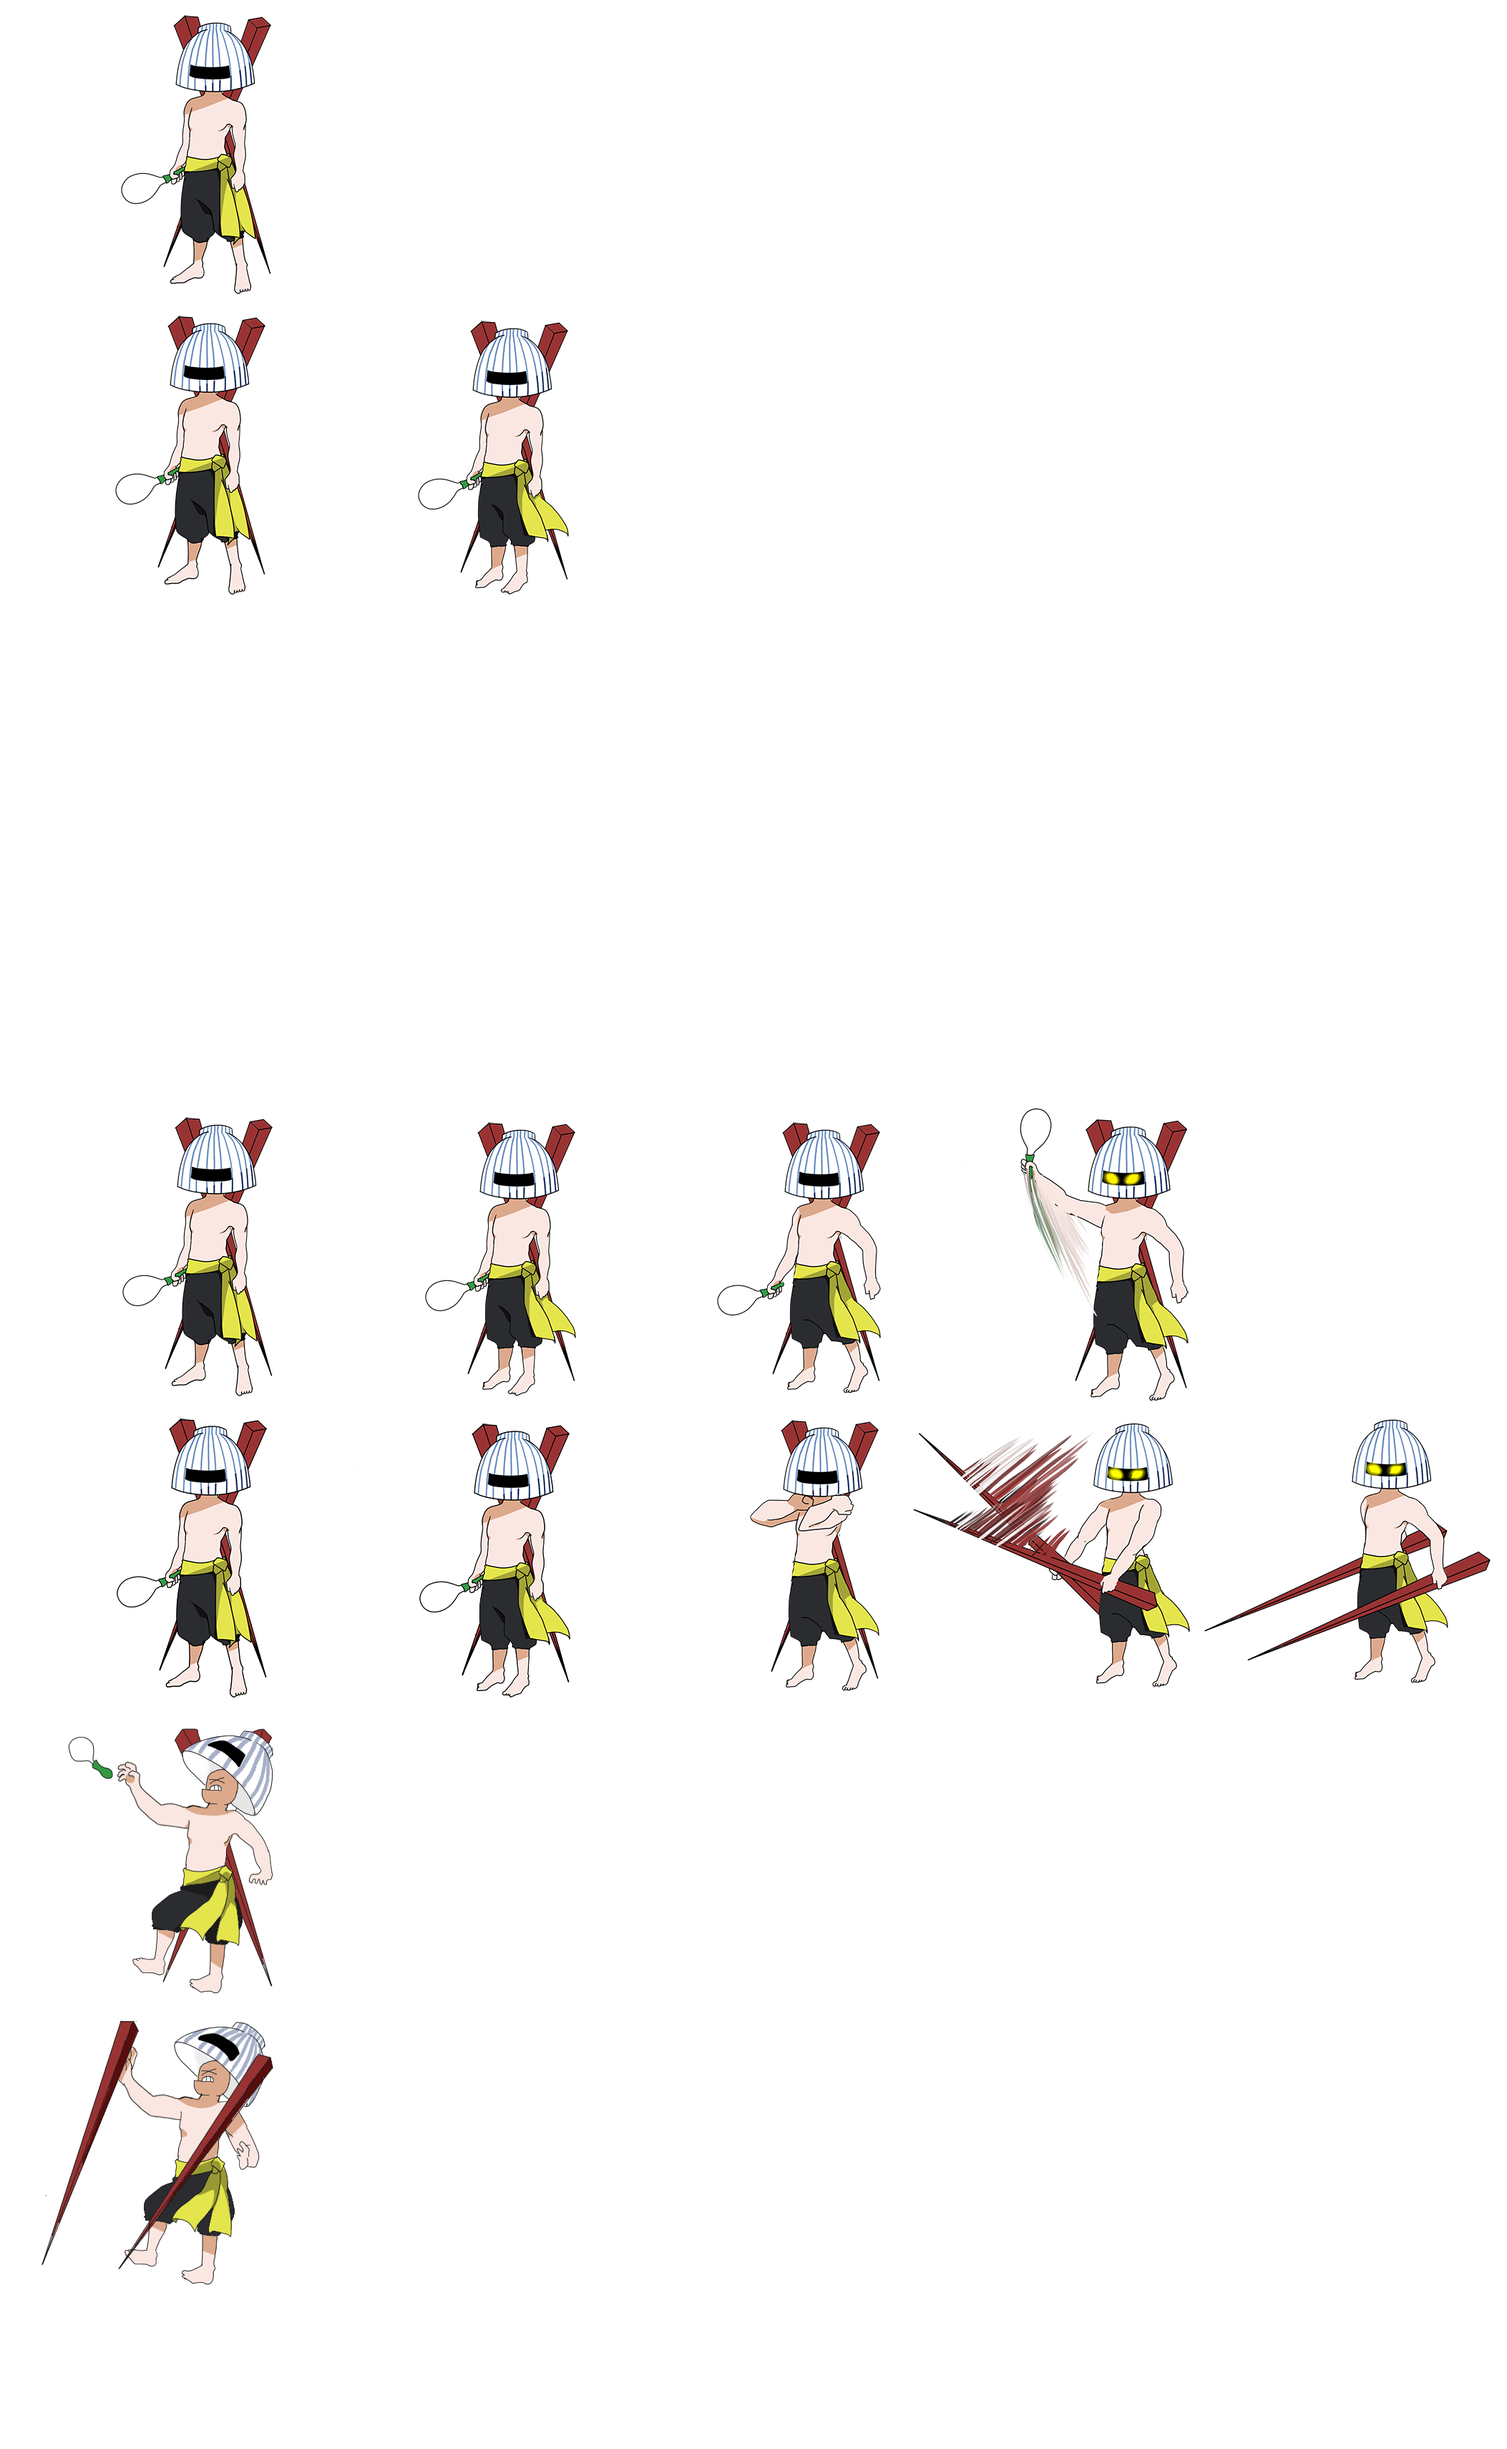
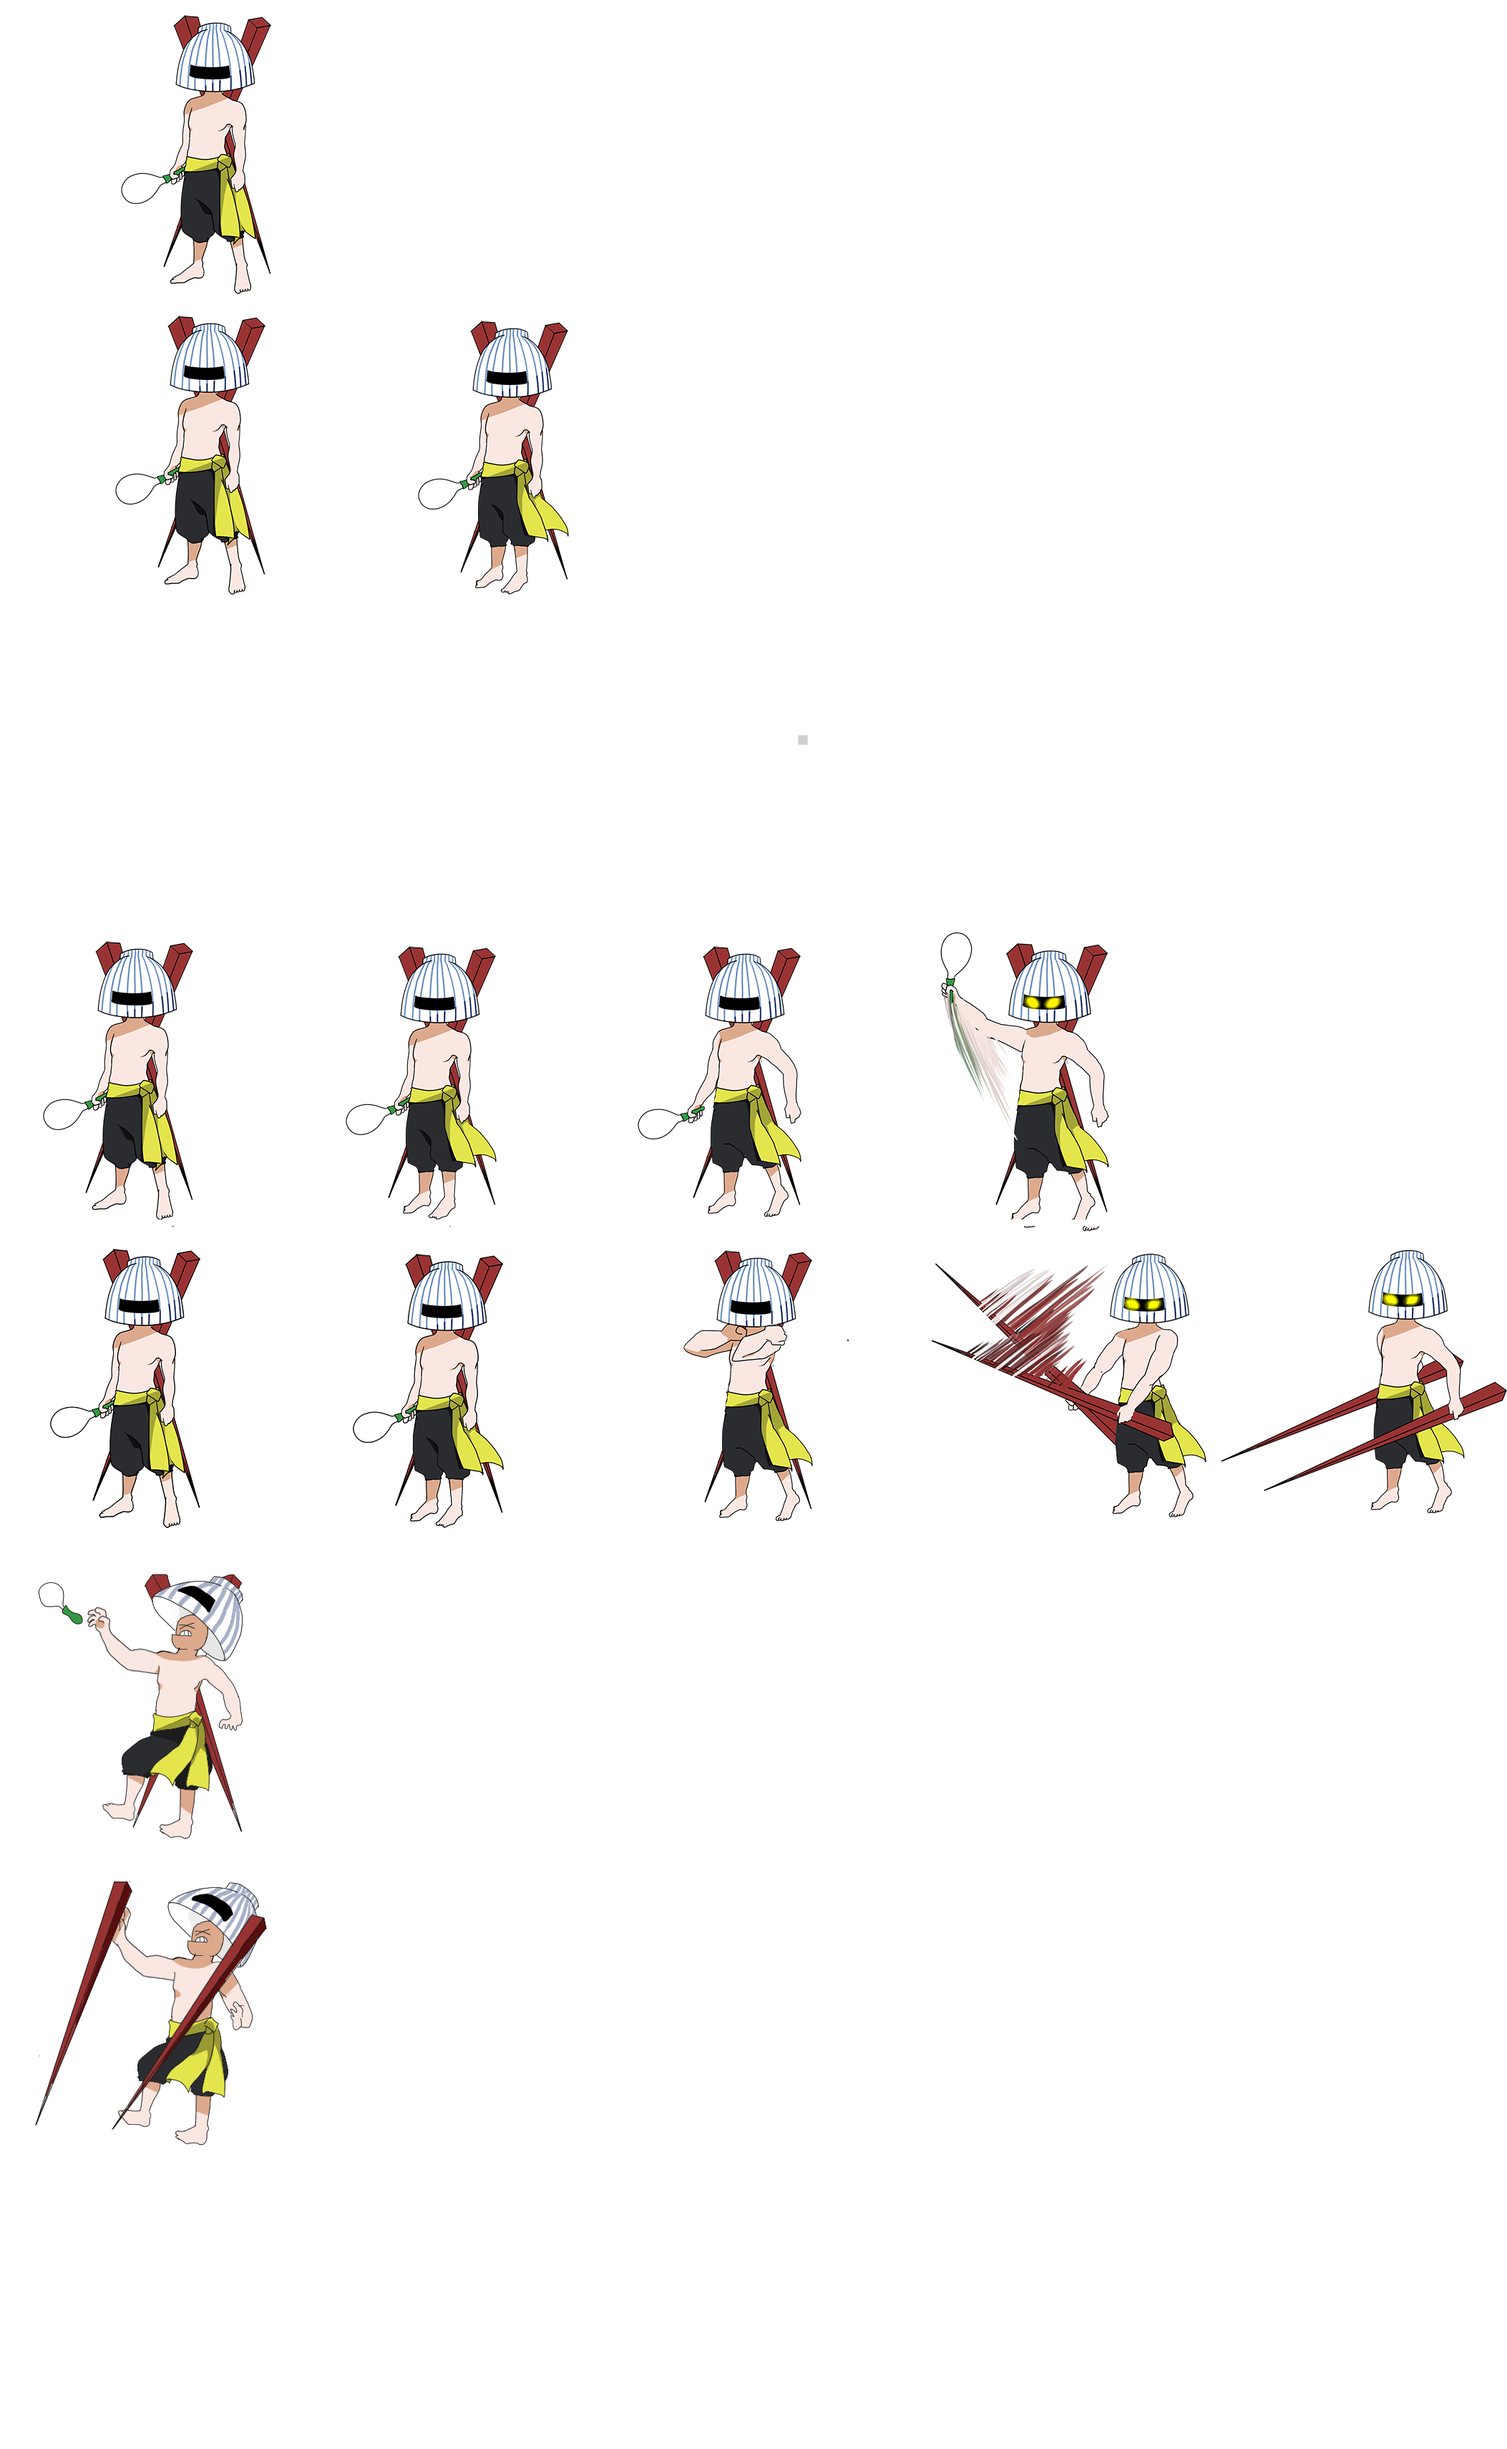
敵追加

diff --git a/高松/Berun/Berun_Project/Game/Enemy/CEnemy.cpp b/高松/Berun/Berun_Project/Game/Enemy/CEnemy.cpp
@@ -15,14 +15,16 @@ CEnemy::CEnemy(int type):CCharaBase(type,eEnemy,eUDP_Enemy,eDWP_Enemy)
 	//CPlayer *p = dynamic_cast<CPlayer*>(CTaskManager::GetInstance()->GetTask(ePlayer));
 	//CVector3D vec = p->GetPos() - m_pos;
 	mp_player = CPlayer::mp_player;
-	
+	m_img= dynamic_cast<CImage*>(CResourceManager::GetInstance()->Get("CarrotShot"));
 	srand(time(nullptr));
 	m_enemyAppears = rand() % 4;
-	m_pos = CVector3D(1200+m_scroal.x, 0 ,200+50*m_enemyAppears);
+	m_pos = CVector3D(1000+m_scroal.x, 0 ,250+50*m_enemyAppears);
 	m_enemyType = type;
 	m_enemyTime = 0;
 	//m_enemyHp->SetColor(1, 0, 0, 1);
 	m_chickTime = 0;
+	m_rabittoCont=0;
+	m_rabittoCont2=0;
 	
 }
 CEnemy::~CEnemy() {
@@ -31,6 +33,7 @@ CEnemy::~CEnemy() {
 void CEnemy::Draw() {
 
 	CCharaBase::Draw();
+	
 
 }
 void CEnemy::Contlol() {
@@ -44,10 +47,54 @@ void CEnemy::Contlol() {
 	}
 
 	if (m_hp > 0) {
+		
 		if (m_enemyType == 6) {
+			
+			if (m_pos.x > 3840) {
+				m_pos.x = 3840;
+			}
+			m_rabittoCont = rand() % 2;
+			m_chickTime += CHICK_TIME;
+			
+			if(m_chickTime<100){
+				if (m_rabittoCont2 == 0) {
+					switch (m_rabittoCont)
+					{
+					case 0:
+						m_left = true;
+						m_up = true;
+						break;
+					case 1:
+						m_right = true;
+						m_down = true;
+						break;
+					case 2:
+						m_left = true;
+						m_down = true;
+						break;
+					case 4:
+						m_right = true;
+						m_up = true;
+						break;
+					}
+				}
+				}
+			
+			if (m_chickTime > 150) {
+				m_cont++;
+				m_rabittoCont2 += 1;
+			}
+			if (m_chickTime > 200&&m_cont==1 ) {
+				m_attack = true;  
+			}
+				if (m_chickTime > 250) {
+					m_chickTime = 0;
+					
+					m_rabittoCont2 = 0;
+					m_cont = 0;
+				}
+			
 
-			m_left = true;
-			m_jump = true;
 		}
 
 

diff --git a/高松/Berun/Berun_Project/System/CharaBase/CCharaBase.cpp b/高松/Berun/Berun_Project/System/CharaBase/CCharaBase.cpp
@@ -49,16 +49,16 @@ T_AnimData _pigAnimData[] = {
 	{ 2,5 },
 	{ 0,0 },
 	{ 2,8 },
-	{ 5,10 },
+	{ 6,10 },
 
 };
 T_AnimData _bossAnimData[] = {
-	{ 2,5 },
-	{ 2,5 },
-	{ 2,5 },
-	{ 2,5 },
+	{ 10,10 },
 	{ 2,8 },
-	{ 5,10 },
+	{ 0,0 },
+	{ 2,8 },
+	{ 6,8 },
+	{ 2,8 },
 
 };
  static const T_CharacterData g_characterData[] =
@@ -69,7 +69,7 @@ T_AnimData _bossAnimData[] = {
 	{ "Chick",3,5,1,1,0,0,1,0,0,1,2,0,1,{ 160,160 } ,_chickAnimData,{ 220,220 },{ 60,160 },CRect(-60,-160,60,0),eCarrotItem },
 	{ "Fish",4,5,1,1,0,0,1,0,0,1,1,0,1,{ 160,160 } ,_fishAnimData,{ 200,200 },{ 60,160 },CRect(-60,-160,60,0),eCarrotItem },
 	{ "Pig",4,5,1,1,0,0,1,0,0,1,4,0,1,{ 160,160 } ,_pigAnimData,{ 220,220 },{ 60,160 },CRect(-60,-130,60,0),eCarrotItem },
-	{ "Boss",4,5,1,1,0,0,1,0,0,1,4,0,1,{ 160,160 } ,_bossAnimData,{ 400,400 },{ 60,160 },CRect(-60,-160,60,0),eCarrotItem },
+	{ "Boss",4,5,1,1,0,0,1,0,0,1,4,0,1,{ 280,280 } ,_bossAnimData,{ 500,500 },{ 60,160 },CRect(-60,-160,60,0),eCarrotItem },
 	//{ "Fish",4,5,0,0,0,0,0,0,0,1,0,0,0 },
 	//{ "Rice",5,5,0,0,0,0,0,0,0,1,0,0,0 },
 };

diff --git a/高松/Berun/Berun_Project/main.cpp b/高松/Berun/Berun_Project/main.cpp
@@ -136,9 +136,10 @@ void init(void)
 	CResourceManager::GetInstance()->Add("BackGround2", CImage::LoadImage("BackGround/Back/Back_02.png"));
 	CResourceManager::GetInstance()->Add("Back_03", CImage::LoadImage("BackGround/Back/Back_03.png"));
 	CResourceManager::GetInstance()->Add("Carrot", CImage::LoadImage("Enemy/Carrot.png"));
+	CResourceManager::GetInstance()->Add("CarrotShot", CImage::LoadImage("Enemy/Carrot.png"));
 	CResourceManager::GetInstance()->Add("Chick", CImage::LoadImage("Enemy/Chick.png"));
 	CResourceManager::GetInstance()->Add("Fish", CImage::LoadImage("Enemy/Fish.png"));
-	CResourceManager::GetInstance()->Add("Boss", CImage::LoadImage("Enemy/Boss_R_01.png"));
+	CResourceManager::GetInstance()->Add("Boss", CImage::LoadImage("Enemy/Boss_B_01.png"));
 	CResourceManager::GetInstance()->Add("Pig", CImage::LoadImage("Enemy/Pig.png"));
 	CResourceManager::GetInstance()->Add("Meter", CImage::LoadImage("Enemy/Meter_01.png"));
 	CResourceManager::GetInstance()->Add("Pos", CImage::LoadImage("BackGround/Gauge01.png"));

diff --git a/高松/Berun/Berun_Project/Game/Enemy/CEnemy.h b/高松/Berun/Berun_Project/Game/Enemy/CEnemy.h
@@ -26,6 +26,8 @@ private:
 	int m_enemyTime;
 	int m_enemyPatarn;
 	int m_cont;
+	int m_rabittoCont;
+	int m_rabittoCont2;
 	float m_chickTime;
 public:
 	
